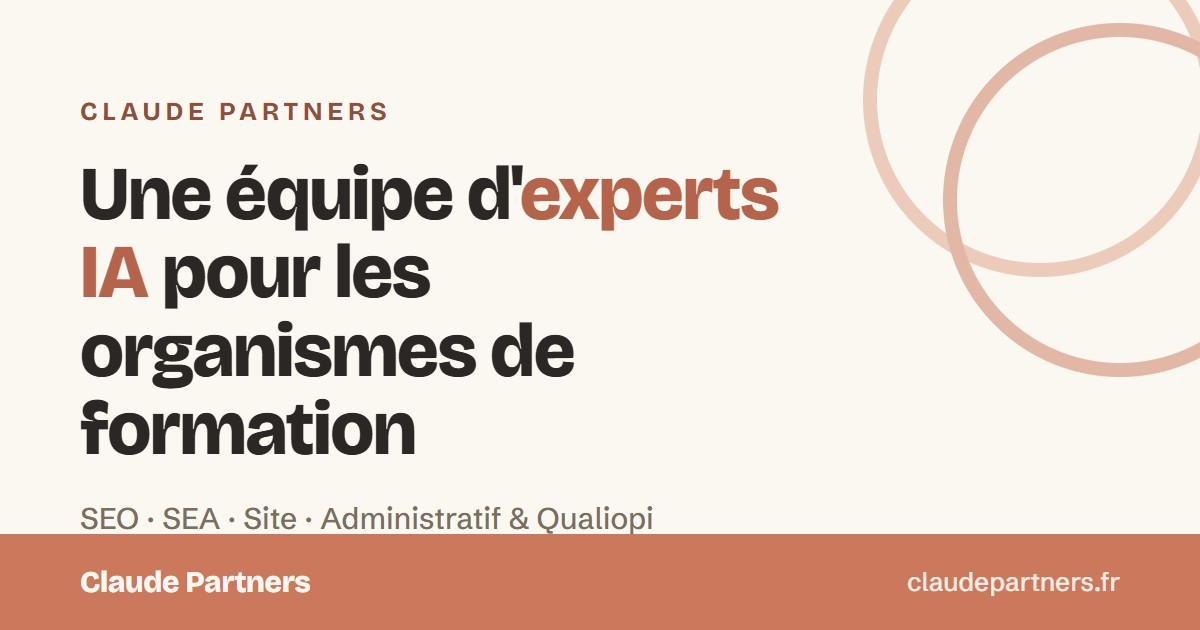
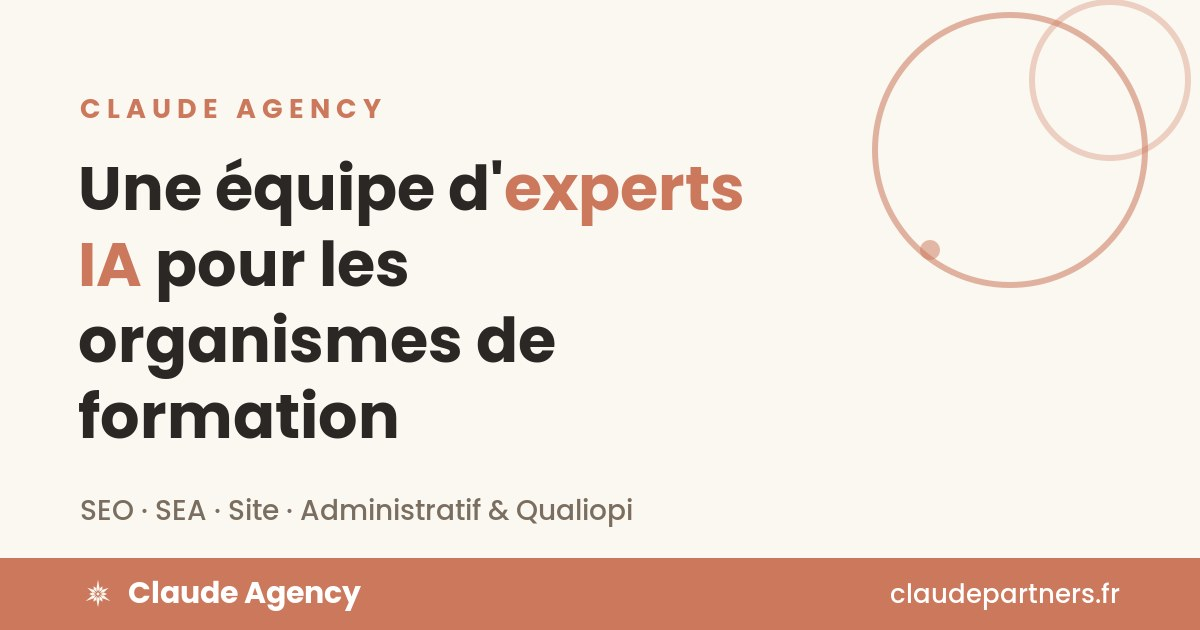
Rebrand assets: PDF lead magnet, emails sequence, image OG -> Claude Agency

diff --git a/app/scripts/generate-lead-magnet-pdf.py b/app/scripts/generate-lead-magnet-pdf.py
@@ -1,5 +1,5 @@
 #!/usr/bin/env python3
-"""Génère le lead magnet PDF « 10 automatisations IA » à la charte Claude Partners.
+"""Génère le lead magnet PDF « 10 automatisations IA » à la charte Claude Agency.
 
 Sortie : app/public/ressources/10-automatisations-ia.pdf
 Lancer depuis app/ :  python scripts/generate-lead-magnet-pdf.py
@@ -10,11 +10,11 @@ from reportlab.lib.units import cm
 from reportlab.lib.colors import HexColor, white
 from reportlab.lib.styles import ParagraphStyle
 from reportlab.platypus import (
-    SimpleDocTemplate, Paragraph, Spacer, Table, TableStyle, KeepTogether, HRFlowable,
+    SimpleDocTemplate, Paragraph, Spacer, Table, TableStyle, KeepTogether, HRFlowable, Image,
 )
 
 # Palette (approx. charte du site)
-BRAND = HexColor("#BE5B3A")
+BRAND = HexColor("#CC785C")
 INK = HexColor("#2B2A28")
 MUTED = HexColor("#6E665C")
 CREAM = HexColor("#FBF8F2")
@@ -23,6 +23,7 @@ SAND = HexColor("#E7DECF")
 HERE = os.path.dirname(os.path.abspath(__file__))
 OUT = os.path.normpath(os.path.join(HERE, "..", "public", "ressources", "10-automatisations-ia.pdf"))
 os.makedirs(os.path.dirname(OUT), exist_ok=True)
+LOGO = os.path.join(HERE, "logo-spark-cream.png")
 
 MARGIN = 2 * cm
 CONTENT_W = A4[0] - 2 * MARGIN
@@ -92,10 +93,14 @@ FICHES = [
 
 
 def header_band():
-    t = Table([[Paragraph(TITLE, styles["h_title"])]], colWidths=[CONTENT_W])
+    logo = Image(LOGO, width=1.15 * cm, height=1.15 * cm)
+    t = Table([[logo, Paragraph(TITLE, styles["h_title"])]],
+              colWidths=[1.7 * cm, CONTENT_W - 1.7 * cm])
     t.setStyle(TableStyle([
         ("BACKGROUND", (0, 0), (-1, -1), BRAND),
-        ("LEFTPADDING", (0, 0), (-1, -1), 18),
+        ("VALIGN", (0, 0), (-1, -1), "MIDDLE"),
+        ("LEFTPADDING", (0, 0), (0, 0), 18),
+        ("LEFTPADDING", (1, 0), (1, 0), 6),
         ("RIGHTPADDING", (0, 0), (-1, -1), 18),
         ("TOPPADDING", (0, 0), (-1, -1), 18),
         ("BOTTOMPADDING", (0, 0), (-1, -1), 18),
@@ -131,7 +136,7 @@ def on_page(canvas, doc):
     canvas.rect(0, 0, A4[0], A4[1], fill=1, stroke=0)
     canvas.setFillColor(MUTED)
     canvas.setFont("Times-Roman", 8)
-    canvas.drawString(MARGIN, 1.2 * cm, "Claude Partners — claudepartners.fr")
+    canvas.drawString(MARGIN, 1.2 * cm, "Claude Agency — claudepartners.fr")
     canvas.drawRightString(A4[0] - MARGIN, 1.2 * cm, str(doc.page))
     canvas.restoreState()
 
@@ -141,7 +146,7 @@ def build():
         OUT, pagesize=A4,
         leftMargin=MARGIN, rightMargin=MARGIN, topMargin=MARGIN, bottomMargin=2 * cm,
         title="10 automatisations IA pour organismes de formation",
-        author="Julien Rayes — Claude Partners",
+        author="Julien Rayes — Claude Agency",
     )
     story = [
         Paragraph("GUIDE GRATUIT", styles["eyebrow"]),
@@ -154,7 +159,7 @@ def build():
     ]
     for i, (num, title, detail, result) in enumerate(FICHES):
         block = [
-            Paragraph(f'<font color="#BE5B3A">{num}</font>&nbsp;&nbsp;{title}', styles["fiche_h"]),
+            Paragraph(f'<font color="#CC785C">{num}</font>&nbsp;&nbsp;{title}', styles["fiche_h"]),
             Paragraph(detail, styles["body"]),
             Paragraph(result, styles["result"]),
         ]

diff --git a/docs/superpowers/content/lead-magnet-emails.md b/docs/superpowers/content/lead-magnet-emails.md
@@ -18,7 +18,7 @@ Merci de votre intérêt ! Un dernier clic pour confirmer votre adresse et recev
 
 Si vous n'êtes pas à l'origine de cette demande, ignorez simplement cet email.
 
-— Julien Rayes, Claude Partners
+— Julien Rayes, Claude Agency
 
 ---
 